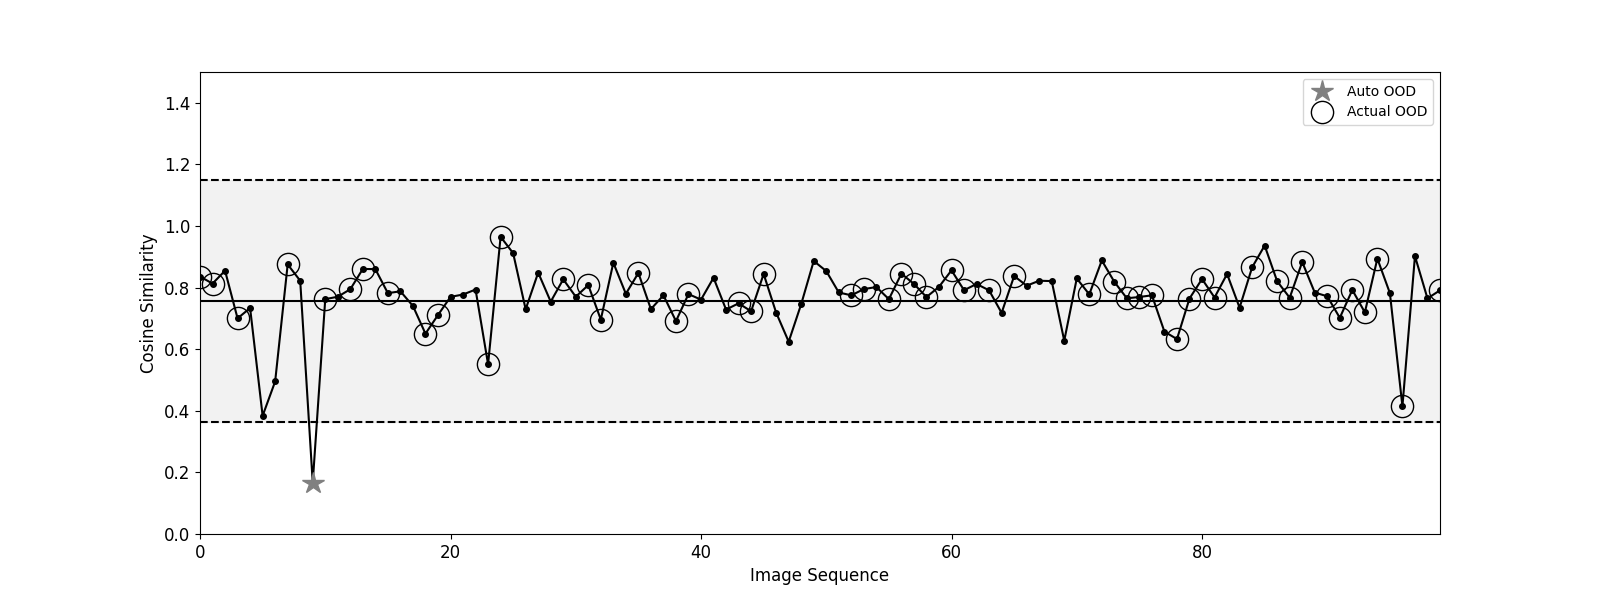
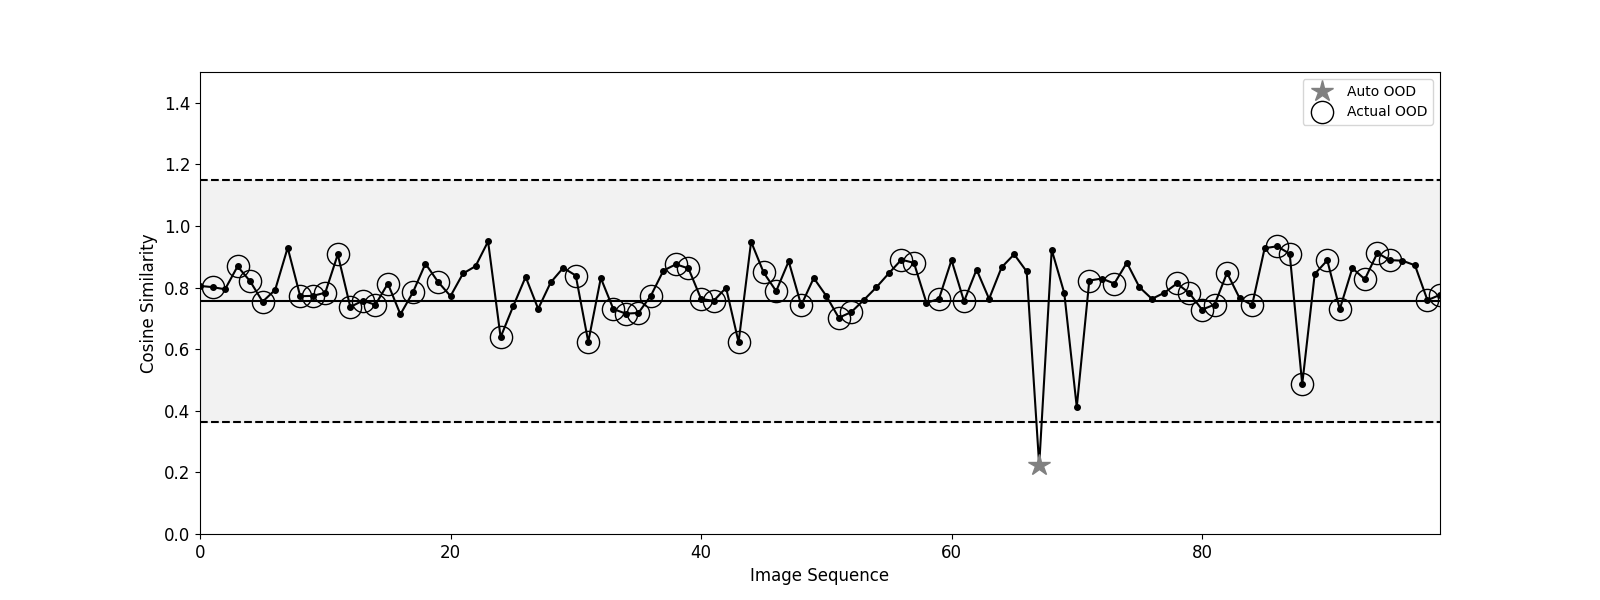
results & figures for 10/31/2023 meeting

Changed region(s): [[0.125, 0.39, 0.9062, 0.81], [0.8125, 0.6, 0.8438, 0.66], [0.875, 0.66, 0.9062, 0.69]]

diff --git a/ood_detection.py b/ood_detection.py
@@ -271,7 +271,7 @@ def main():
     ood_statistics(Ftr_, Ftt, 1 - ytt, options["metric"], n=1000)
 
     # Plot OOD chart for one particular subset
-    random.seed(2023)
+    random.seed(2021)
     ridx, num = random.randint(a=0, b=Ftt.shape[0]-101), 100
     Ftt_ = Ftt[ridx:(ridx+num)]
     ytt_ = ytt[ridx:(ridx+num)]
